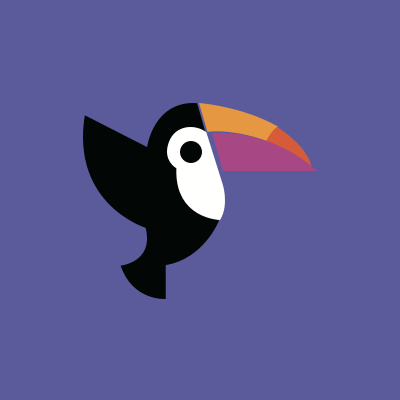
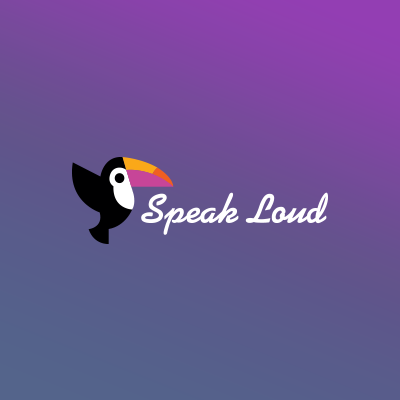
스픽라우드추가

diff --git a/2017_3.html b/2017_3.html
@@ -1,0 +1,112 @@
+<!DOCTYPE html>
+<html lang="en">
+<head>
+	<meta charset="utf-8">
+    <meta http-equiv="X-UA-Compatible" content="IE=edge,chrome=1">
+	<title>Jihe Im</title>
+	<meta property="og:title" content="Jihe Im" />
+	<meta property="og:type" content="website" />
+	<meta property="og:url" content="http://jiheim.github.io" />
+	<meta property="og:image" content="http://jiheim.github.io/favicon/og.png" />
+	<meta property="og:description" content="This is Jihe Im's website" />
+	<meta name="viewport" content="width=device-width, initial-scale=1">
+    <link type="text/plain" rel="author" href="http://domain/humans.txt" />
+    <link rel="apple-touch-icon" href="favicon/apple-icon.png">
+    <link rel="icon" type="image/png" href="favicon/favicon.ico">
+    <link rel="stylesheet" href="css/normalize.css">
+    <link rel="stylesheet" href="css/animate.css">
+    <link rel="stylesheet" href="css/style.css">
+    <link rel="stylesheet" href="https://maxcdn.bootstrapcdn.com/font-awesome/4.6.3/css/font-awesome.min.css">
+</head>
+<body>
+	
+	<a class="goback" href="index.html"><i class="fa fa-angle-left" aria-hidden="true"></i></a>
+
+	<div class="intro-menu">
+	    <ul class="intro-menu-list">
+	        <li><a class="btn" href="aboutme.html">about me</a></li>
+	        <li><a class="btn" href="https://kr.linkedin.com/in/jihe-im-001334123" target="blank">Linkedin</a></li>
+	        <li><a class="btn" href="mailto:koyote.nowhere@gmail.com" target="blank">email</a></li>
+	    </ul>
+    </div>
+
+    <div class="intro-menu-mobile">
+	    <ul class="intro-menu-mobile-list">
+	    	<li><a class="btn home" href="index.html">Home</a></li>
+	        <li><a class="btn" href="aboutme.html">about me</a></li>
+	        <li><a class="btn" href="https://kr.linkedin.com/in/jihe-im-001334123" target="blank">Linkedin</a></li>
+	        <li><a class="btn" href="mailto:koyote.nowhere@gmail.com" target="blank">email</a></li>
+	    </ul>
+    </div>
+    
+	<article class="work-content">
+
+		<!--<img src="img/liivtong_header.jpg" alt="">-->
+
+		<div class="work-desc">
+
+
+			<dl class="work-desc-title">
+				<dt>title</dt>
+				<dd>
+					<h2></h2>
+				</dd>
+			</dl>
+
+			<dl class="work-desc-role">
+				<dt>Design</dt>
+				<dd>
+					<div class="meter"><div class="bar bar100"></div></div>
+					<span class="meter-percent">100&#37;</span>
+				</dd>
+			</dl>
+
+			<dl class="work-desc-client">
+				<dt>client</dt>
+				<dd>
+					<span>forple</span>
+				</dd>
+			</dl>
+
+			<dl class="work-desc-date">
+				<dt>date</dt>
+				<dd>
+					<span>Dec, 2017</span>
+				</dd>
+			</dl>
+
+		</div>
+
+		<ul class="work-content-list">
+
+
+			<li>
+				<img src="img/speakloud1.png" alt="">
+			</li>
+
+			<li>
+				<img src="img/speakloud2.png" alt="">
+			</li>
+
+		</ul>
+
+
+	</article>
+
+	<script src="js/jquery-1.12.3.min.js"></script>
+	<script src="https://cdn.jsdelivr.net/jquery.typeit/4.2.3/typeit.min.js"></script>
+	<script src="https://cdnjs.cloudflare.com/ajax/libs/headroom/0.9.3/headroom.js"></script>
+	<script src="https://cdnjs.cloudflare.com/ajax/libs/headroom/0.9.3/jQuery.headroom.js"></script>
+	<script src="js/script.js"></script>
+
+	<script>
+		
+		$('.work-desc-title h2').typeIt({
+		    strings: 'Speak Loud',
+			speed: 50,
+			autoStart: false
+		});
+
+	</script>
+</body>
+</html>

diff --git a/index.html b/index.html
@@ -45,6 +45,19 @@
 
 	    <ul class="works-list">
 
+			<li>
+	        	<a href="2017_3.html">
+	        		<img src="img/speak_tn.png" alt="">
+
+	        		<div class="works-list-title">
+	        			<div>
+							<h2>Speak Loud App</h2>
+	        				<p>2017</p>
+	        			</div>
+					</div>
+	        	</a>
+	        </li>
+
 
 			<li>
 	        	<a href="2017_2.html">
